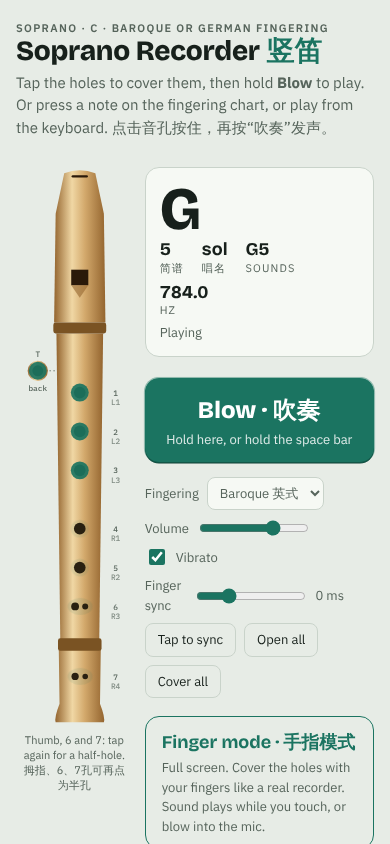
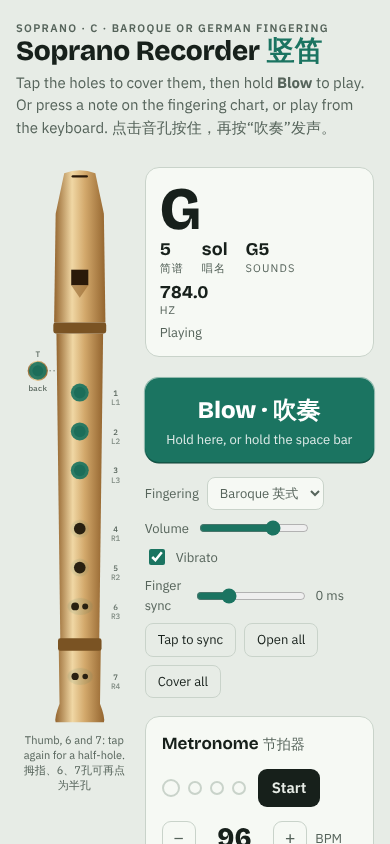
Add a metronome
Audio-clock clicks with an accented first beat, beat lights that follow
the device's audio delay, BPM steps and slider with tempo names, 2/4,
3/4 and 4/4, tap tempo, song tempo, M key, and a toggle in Finger mode.
Listen restarts the metronome in step with the song.

Claude-Session: https://claude.ai/code/session_01FxmE5ZKptwrR9FU3uFz5EN

Changed region(s): [[0.4, 0.8626, 0.9231, 1.0], [0.9538, 0.9858, 0.9846, 1.0], [0.3692, 0.9858, 0.4, 1.0]]

diff --git a/index.html b/index.html
@@ -198,6 +198,26 @@ section{display:flex;flex-direction:column;gap:14px}
   .fm-bar{padding-block:4px 2px}.fm-note b{font-size:28px}.fm-note .fjp{font-size:18px}
   .seg button,.fm-x{padding:5px 9px}.fm-row{padding-bottom:2px}.fm-row #fmMsg{flex-basis:100%}
 }
+/* metronome */
+.metro{background:var(--surface);border:1px solid var(--line);border-radius:14px;padding:14px 16px;display:flex;flex-direction:column;gap:10px}
+.mhead{display:flex;align-items:center;gap:12px;flex-wrap:wrap}
+.mhead h3{margin:0;font-family:var(--f-display);font-size:17px;font-weight:700;margin-right:auto}
+.mhead h3 span{color:var(--muted);font-weight:500;font-size:14px;margin-left:.3em}
+.mtog{border:0;border-radius:9px;padding:8px 14px;cursor:pointer;font-weight:600;background:var(--ink);color:var(--bg)}
+.mtog[aria-pressed="true"]{background:var(--accent);color:var(--accent-ink)}
+.mdots{display:flex;gap:8px;align-items:center}
+.mdot{width:14px;height:14px;border-radius:50%;border:2px solid var(--line);background:transparent}
+.mdot.acc{width:18px;height:18px}
+.mdot.on{background:var(--accent);border-color:var(--accent)}
+.mdot.acc.on{background:var(--guide);border-color:var(--guide)}
+.mrow{display:flex;align-items:center;gap:8px;flex-wrap:wrap;font-size:13px;color:var(--muted)}
+.mstep{width:34px;height:34px;border-radius:9px;border:1px solid var(--line);background:transparent;cursor:pointer;font-size:18px;line-height:1}
+.mbpm{font-family:var(--f-display);font-weight:800;font-size:28px;color:var(--ink);font-variant-numeric:tabular-nums;min-width:2.2em;text-align:center}
+.mterm{font-style:italic;min-width:6em}
+#mSlider{flex:1;min-width:120px}
+.fm-metro{display:inline-flex;align-items:center;gap:6px}
+.fm-metro .mdot{width:10px;height:10px}.fm-metro .mdot.acc{width:13px;height:13px}
+#fmMetro[aria-pressed="true"]{background:var(--accent);color:var(--accent-ink);border-color:var(--accent)}
 .toast{position:fixed;left:0;right:0;bottom:0;z-index:60;display:flex;align-items:center;gap:10px;
   padding:12px max(16px,env(safe-area-inset-right,0px)) calc(12px + env(safe-area-inset-bottom,0px)) max(16px,env(safe-area-inset-left,0px));
   background:var(--ink);color:var(--bg);font-size:14px}
@@ -263,6 +283,28 @@ section{display:flex;flex-direction:column;gap:14px}
         <button class="ghost" id="closeAll" type="button">Cover all</button>
       </div>
 
+      <div class="metro" id="metro">
+        <div class="mhead">
+          <h3>Metronome<span>节拍器</span></h3>
+          <div class="mdots" id="mDots" aria-hidden="true"></div>
+          <button type="button" class="mtog" id="mToggle" aria-pressed="false">Start</button>
+        </div>
+        <div class="mrow">
+          <button type="button" class="mstep" id="mDown" aria-label="Slower">−</button>
+          <span class="mbpm" id="mBpm">96</span>
+          <button type="button" class="mstep" id="mUp" aria-label="Faster">+</button>
+          <span>BPM</span><span class="mterm" id="mTerm">Andante</span>
+          <input type="range" id="mSlider" min="40" max="208" value="96" aria-label="Tempo in beats per minute">
+        </div>
+        <div class="mrow">
+          <label for="mBeats">Time</label>
+          <select id="mBeats"><option value="2">2/4</option><option value="3">3/4</option><option value="4" selected>4/4</option><option value="1">No accent</option></select>
+          <button type="button" class="ghost" id="mTap">Tap tempo</button>
+          <button type="button" class="ghost" id="mSong">Use song tempo</button>
+          <span>Key <kbd>M</kbd></span>
+        </div>
+      </div>
+
       <button class="fmbtn" id="fmOpen" type="button"><b>Finger mode · 手指模式</b><small>Full screen. Cover the holes with your fingers like a real recorder. Sound plays while you touch, or blow into the mic.</small></button>
 
       <div class="keys">
@@ -312,6 +354,7 @@ section{display:flex;flex-direction:column;gap:14px}
       <label for="sens" style="display:inline-flex;align-items:center;gap:6px;margin-left:8px">Sensitivity <input id="sens" type="range" min="1" max="100" value="55" style="width:80px"></label></span>
     <span style="display:inline-flex;align-items:center;gap:6px">Sync <input id="sync2" type="range" min="-300" max="800" step="10" value="0" style="width:80px" aria-label="Finger sync"> <span id="syncv2">0 ms</span></span>
     <button type="button" id="calib2">Tap to sync</button>
+    <span class="fm-metro"><button type="button" id="fmMetro" aria-pressed="false">♩ <span id="fmBpm">96</span></button><span class="mdots" id="fmDots" aria-hidden="true"></span></span>
     <span id="fmMsg">Touch the holes to play. Sound plays while any finger is down.</span>
   </div>
   <div class="fm-field" id="fmField">
@@ -564,6 +607,7 @@ const typing=e=>e.target.closest&&e.target.closest('select,input,textarea');
 window.addEventListener('keydown',e=>{
   if(e.metaKey||e.ctrlKey||e.altKey||typing(e)) return;
   if(e.code==='Space'){ e.preventDefault(); if(!e.repeat) startBlow('space'); return }
+  if(e.code==='KeyM'){ e.preventDefault(); if(!e.repeat) mToggle(); return }
   const m=keyMidi(e); if(m==null) return;
   e.preventDefault(); if(e.repeat) return;
   held.push(e.code); playMidi(m,'k:'+e.code);
@@ -574,7 +618,7 @@ window.addEventListener('keyup',e=>{
   release('k:'+e.code);
 });
 window.addEventListener('blur',()=>{held.length=0;releaseAll()});
-document.addEventListener('visibilitychange',()=>{if(document.hidden){held.length=0;stopSong();releaseAll()}});
+document.addEventListener('visibilitychange',()=>{if(document.hidden){held.length=0;stopSong();releaseAll();if(typeof mStop==='function')mStop()}});
 
 $('sys').addEventListener('change',e=>{system=e.target.value;buildChart();changed()});
 $('vol').addEventListener('input',()=>{if(A.master)A.master.gain.setTargetAtTime(vol(),A.ctx.currentTime,0.02)});
@@ -585,13 +629,13 @@ $('closeAll').addEventListener('click',()=>{holes=[1,1,1,1,1,1,1,1];changed()});
 const parse=s=>s.trim().split(/\s+/).map(t=>{if(t==='|')return {bar:true};const [n,b]=t.split(':');return {m:toMidi(n),b:b?+b:1}});
 function toMidi(n){const mm=/^([A-G])(#?)(\d)$/.exec(n);return ({C:0,D:2,E:4,F:5,G:7,A:9,B:11})[mm[1]]+(mm[2]?1:0)+(+mm[3]+1)*12}
 const SONGS=[
- {id:'twinkle',name:'Twinkle, Twinkle',zh:'小星星',key:'1=C',tonic:72,bpm:96,
+ {id:'twinkle',beats:4,name:'Twinkle, Twinkle',zh:'小星星',key:'1=C',tonic:72,bpm:96,
   notes:parse(`C5 C5 G5 G5 | A5 A5 G5:2 | F5 F5 E5 E5 | D5 D5 C5:2 | G5 G5 F5 F5 | E5 E5 D5:2 | G5 G5 F5 F5 | E5 E5 D5:2 | C5 C5 G5 G5 | A5 A5 G5:2 | F5 F5 E5 E5 | D5 D5 C5:2`)},
- {id:'mary',name:'Mary Had a Little Lamb',zh:'玛丽有只小羊羔',key:'1=C',tonic:72,bpm:108,
+ {id:'mary',beats:4,name:'Mary Had a Little Lamb',zh:'玛丽有只小羊羔',key:'1=C',tonic:72,bpm:108,
   notes:parse(`E5 D5 C5 D5 | E5 E5 E5:2 | D5 D5 D5:2 | E5 G5 G5:2 | E5 D5 C5 D5 | E5 E5 E5 E5 | D5 D5 E5 D5 | C5:4`)},
- {id:'ode',name:'Ode to Joy',zh:'欢乐颂',key:'1=G',tonic:79,bpm:112,
+ {id:'ode',beats:4,name:'Ode to Joy',zh:'欢乐颂',key:'1=G',tonic:79,bpm:112,
   notes:parse(`B5 B5 C6 D6 | D6 C6 B5 A5 | G5 G5 A5 B5 | B5:1.5 A5:0.5 A5:2 | B5 B5 C6 D6 | D6 C6 B5 A5 | G5 G5 A5 B5 | A5:1.5 G5:0.5 G5:2 | A5 A5 B5 G5 | A5 B5:0.5 C6:0.5 B5 G5 | A5 B5:0.5 C6:0.5 B5 A5 | G5 A5 D5:2 | B5 B5 C6 D6 | D6 C6 B5 A5 | G5 G5 A5 B5 | A5:1.5 G5:0.5 G5:2`)},
- {id:'jasmine',name:'Jasmine Flower',zh:'茉莉花',key:'1=F',tonic:77,bpm:66,
+ {id:'jasmine',beats:4,name:'Jasmine Flower',zh:'茉莉花',key:'1=F',tonic:77,bpm:66,
   notes:parse(`A5 A5:0.5 C6:0.5 D6:0.5 F6:0.5 F6:0.5 D6:0.5 | C6 C6:0.5 D6:0.5 C6:2 | A5 A5:0.5 C6:0.5 D6:0.5 F6:0.5 F6:0.5 D6:0.5 | C6 C6:0.5 D6:0.5 C6:2 | C6 C6 C6 A5:0.5 C6:0.5 | D6 D6 C6:2 | A5 G5:0.5 A5:0.5 C6:0.5 A5:0.5 G5:0.5 F5:0.5 | F5 G5:0.5 F5:0.5 F5:2 | A5:0.5 G5:0.5 F5:0.5 A5:0.5 G5:1.5 A5:0.5 | C6 D6:0.5 F6:0.5 C6:2 | G5 A5:0.5 C6:0.5 G5:0.5 A5:0.5 G5:0.5 F5:0.5 | D5 F5:0.5 G5:0.5 F5:2`)}
 ];
 let song=SONGS[0], mode=null, idx=0, timer=null;
@@ -649,6 +693,7 @@ const onSync=()=>{ showSync(); try{localStorage.setItem('recorderSync',syncEl.va
 syncEl.addEventListener('input',onSync);
 sync2.addEventListener('input',()=>{ syncEl.value=sync2.value; onSync() });
 showSync();
+function audioLag(){ return (A.ctx.outputLatency||0)+(A.ctx.baseLatency||0)+(+syncEl.value)/1000 }
 // Tap to sync: play clicks on the audio clock, time the player's taps, and set the delay from the median gap.
 function calibrate(btn,say){
   ensure(); if(!A.ctx||btn.dataset.busy) return;
@@ -697,9 +742,10 @@ $('listen').addEventListener('click',()=>{
   stopSong(); ensure(); if(!A.ctx) return;
   mode='demo'; const list=playable();
   setMsg(`Listening to ${song.zh}…`);
-  const {starts,end}=scheduleSong(list,A.ctx.currentTime+0.12);
+  const t0=A.ctx.currentTime+0.12, {starts,end}=scheduleSong(list,t0);
+  if(M.on){ setBpm(song.bpm); setBeats(song.beats||4); mStart(t0) }
   A.on=true; sources.add('demo'); let shown=-1;
-  const lag=()=>(A.ctx.outputLatency||0)+(A.ctx.baseLatency||0)+(+syncEl.value)/1000;
+  const lag=audioLag;
   const frame=()=>{
     if(mode!=='demo') return;
     const heard=A.ctx.currentTime-lag();
@@ -866,6 +912,69 @@ window.addEventListener('resize',()=>{ if(!fm.hidden) layoutFM() });
 $('fmSong').addEventListener('change',e=>{ stopSong(); song=SONGS.find(s=>s.id===e.target.value); buildTabs(); buildSong(); render() });
 $('fmListen').addEventListener('click',()=>{ touches.clear(); breath(false); $('listen').click(); fmText(`Listening to ${song.zh}…`) });
 $('fmPractice').addEventListener('click',()=>{ $('practice').click(); fmText('Cover the holes with orange rings, then play.') });
+
+/* ---------- metronome ---------- */
+// Clicks are scheduled on the audio clock a little ahead (steady even if the page is busy);
+// the beat lights follow what you hear, using the same delay correction as Listen.
+const M={on:false,bpm:96,beats:4,next:0,beat:0,timer:0,raf:0,queue:[]};
+const TERMS=[[60,'Largo'],[66,'Larghetto'],[76,'Adagio'],[108,'Andante'],[120,'Moderato'],[156,'Allegro'],[176,'Vivace'],[999,'Presto']];
+try{ const v=JSON.parse(localStorage.getItem('recorderMetro')||'null'); if(v){ M.bpm=v.bpm||96; M.beats=v.beats||4 } }catch(_){}
+const saveMetro=()=>{ try{localStorage.setItem('recorderMetro',JSON.stringify({bpm:M.bpm,beats:M.beats}))}catch(_){} };
+function buildDots(){
+  ['mDots','fmDots'].forEach(id=>{ const box=$(id); box.innerHTML='';
+    for(let i=0;i<M.beats;i++){ const d=document.createElement('span'); d.className='mdot'+(i===0&&M.beats>1?' acc':''); box.appendChild(d) } });
+}
+function lightDot(b){ ['mDots','fmDots'].forEach(id=>[...$(id).children].forEach((d,i)=>d.classList.toggle('on',i===b))) }
+function mUI(){
+  $('mBpm').textContent=M.bpm; $('fmBpm').textContent=M.bpm; $('mSlider').value=M.bpm;
+  $('mTerm').textContent=TERMS.find(t=>M.bpm<t[0])[1]; $('mBeats').value=String(M.beats);
+  $('mToggle').textContent=M.on?'Stop':'Start'; $('mToggle').setAttribute('aria-pressed',M.on); $('fmMetro').setAttribute('aria-pressed',M.on);
+}
+function setBpm(v){ M.bpm=Math.max(40,Math.min(208,Math.round(v))); saveMetro(); mUI() }
+function setBeats(v){ M.beats=+v; M.beat%=M.beats; saveMetro(); buildDots(); mUI() }
+function click(t,accent){
+  const o=A.ctx.createOscillator(), g=A.ctx.createGain(); o.type='triangle'; o.frequency.value=accent?1760:1175;
+  g.gain.setValueAtTime(0,t); g.gain.linearRampToValueAtTime(accent?0.55:0.35,t+0.002); g.gain.exponentialRampToValueAtTime(0.001,t+0.05);
+  o.connect(g); g.connect(A.master); o.start(t); o.stop(t+0.07); return o;
+}
+function mSchedule(){
+  if(!M.on) return;
+  while(M.next<A.ctx.currentTime+0.12){
+    const o=click(M.next, M.beat===0&&M.beats>1); M.queue.push({t:M.next,b:M.beat,o});
+    M.beat=(M.beat+1)%M.beats; M.next+=60/M.bpm;
+  }
+}
+function mDraw(){
+  if(!M.on) return; const heard=A.ctx.currentTime-audioLag(); let cur=null;
+  while(M.queue.length&&M.queue[0].t<=heard) cur=M.queue.shift();
+  if(cur) lightDot(cur.b);
+  M.raf=requestAnimationFrame(mDraw);
+}
+function mStart(at){
+  ensure(); if(!A.ctx) return; mStop(true);
+  M.on=true; M.beat=0; M.next=at!=null?at:A.ctx.currentTime+0.08;
+  mSchedule(); M.timer=setInterval(mSchedule,25); M.raf=requestAnimationFrame(mDraw); mUI();
+}
+function mStop(quiet){
+  clearInterval(M.timer); cancelAnimationFrame(M.raf);
+  if(A.ctx) M.queue.forEach(q=>{ if(q.t>A.ctx.currentTime) try{q.o.stop(0)}catch(_){} });
+  M.queue=[]; M.on=false; lightDot(-1); if(!quiet) mUI();
+}
+function mToggle(){ M.on?mStop():mStart() }
+let taps=[];
+$('mToggle').addEventListener('click',mToggle);
+$('fmMetro').addEventListener('click',mToggle);
+$('mDown').addEventListener('click',()=>setBpm(M.bpm-(M.bpm>120?4:2)));
+$('mUp').addEventListener('click',()=>setBpm(M.bpm+(M.bpm>=120?4:2)));
+$('mSlider').addEventListener('input',e=>setBpm(+e.target.value));
+$('mBeats').addEventListener('change',e=>setBeats(e.target.value));
+$('mSong').addEventListener('click',()=>{ setBpm(song.bpm); setBeats(song.beats||4) });
+$('mTap').addEventListener('click',()=>{
+  const now=performance.now(); if(taps.length&&now-taps[taps.length-1]>2000) taps=[];
+  taps.push(now); if(taps.length>5) taps.shift();
+  if(taps.length>=2){ const gaps=taps.slice(1).map((t,i)=>t-taps[i]); setBpm(60000/(gaps.reduce((a,b)=>a+b)/gaps.length)) }
+});
+buildDots(); mUI();
 
 drawRecorder(); buildChart(); buildTabs(); buildSong(); render();
 })();

diff --git a/README.md b/README.md
@@ -19,6 +19,9 @@ It is an installable app (PWA) that works offline. Open the link once while onli
 ## If Listen's fingers don't match the sound
 Phones and Bluetooth speakers play sound a little late, and iPhone Safari doesn't report how late. Press **Tap to sync** (next to Volume, or in Finger mode), then tap the button on each of the 10 clicks. The app measures your delay and sets **Finger sync** for you. You can still fine-tune the slider: right if the fingers move too early, left if too late.
 
+## Metronome 节拍器
+Press **Start** in the Metronome panel (or **M** on a keyboard, or **♩** in Finger mode). Set the speed with − / +, the slider, or **Tap tempo**; pick 2/4, 3/4 or 4/4 for the accented first beat; **Use song tempo** matches the selected song. If the metronome is on when you press Listen, it restarts in step with the song.
+
 ## On a computer
 Keys A S D F G H J K L ; ' play the natural notes, W E T Y U O P the sharps, 1–7 play 简谱 notes (Shift for the upper octave), and Space blows the fingering shown.
 
